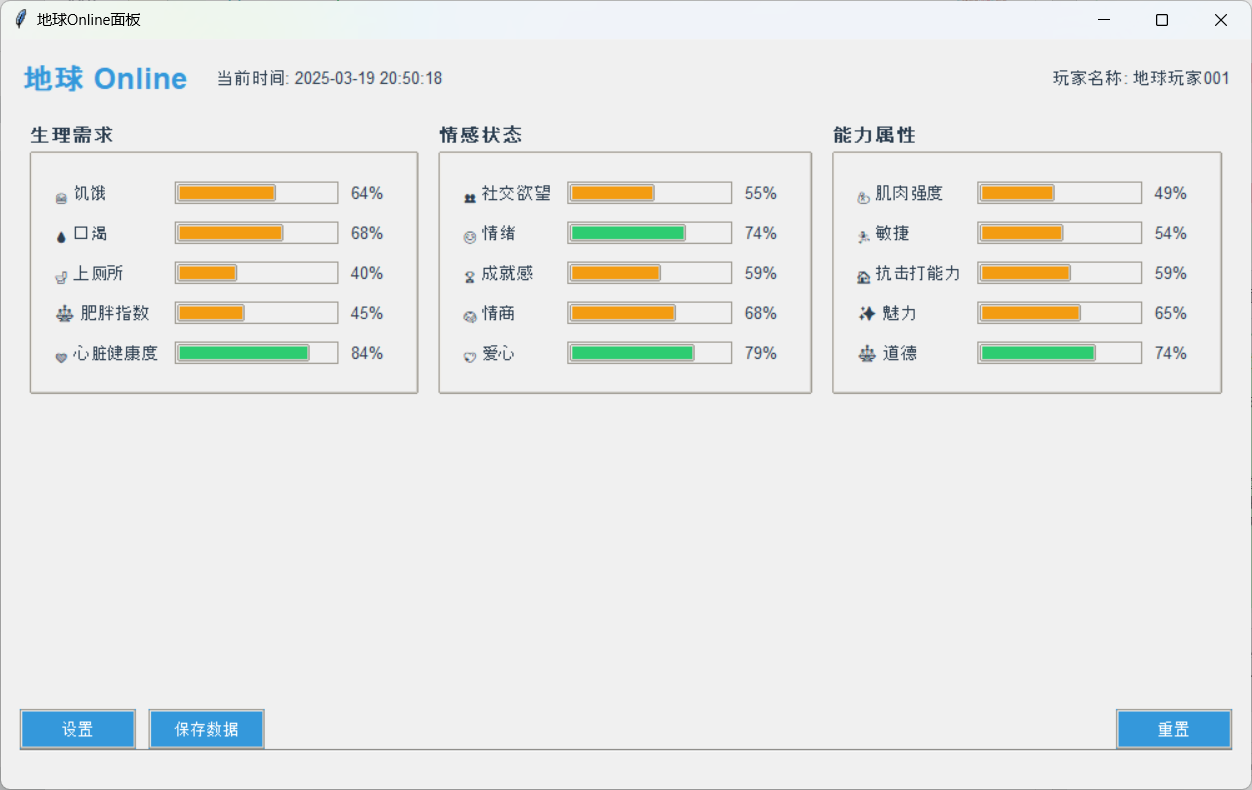
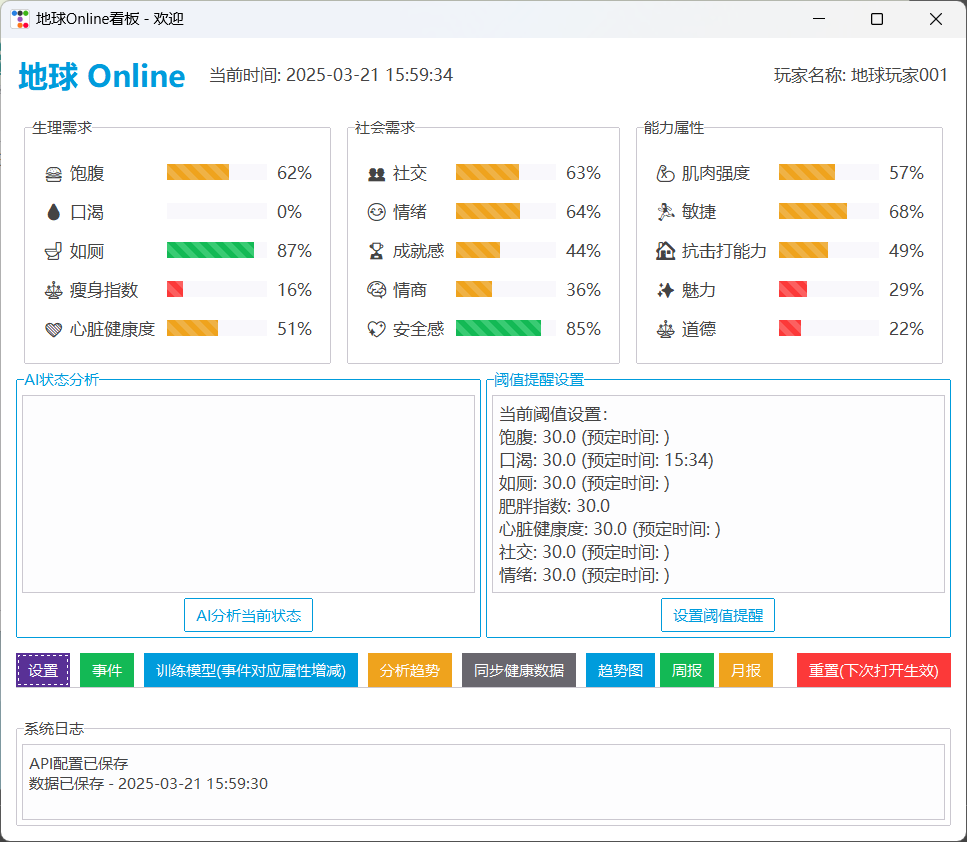
Update Readme

Changed region(s): [[0.0, 0.0, 1.0, 1.0], [0.0, 0.0, 0.1861, 0.0304], [0.8997, 0.0, 0.9307, 0.0304]]

diff --git a/README.md b/README.md
@@ -1,10 +1,10 @@
 # 🌍 地球Online 看板 Earth-Online Kanban
 
-![GitHub stars](https://img.shields.io/github/stars/JyiDeng/earth-online-kanban?style=social)
+<!-- ![GitHub stars](https://img.shields.io/github/stars/JyiDeng/earth-online-kanban?style=social) -->
 
 <i>【地球Online看板】系统已绑定，宿主您当前的属性值是.......</i>
 
-关键词： **自我监控** **健康管理** **动机激励** **智能穿戴集成**
+关键词： **自我监控** **健康管理** **动机激励** **智能穿戴集成** **数据分析** **AI助手**
 
 🌍 地球 Online 电脑桌面看板应用，可视化和跟踪【人类您】的日常生活中的各种属性状态，帮助你以游戏化的方式，更加量化地监控自己的生活状态。
 
@@ -13,20 +13,55 @@
 主页：
 
 <p align="center">
-  <img src="pic/Home.png" alt="地球Online主页截图" height="400">
+  <img src="pic/Home.png" alt="地球Online看板 主页截图" height="400">
 </p>
 
 看板：
 
 <p align="center">
-  <img src="pic/Kanban.png" alt="地球Online面板截图" height="400">
+  <img src="pic/Kanban.png" alt="地球Online看板 面板截图" height="400">
 </p>
+
+事件：
+
+<p align="center">
+  <img src="pic/event.png" alt="地球Online看板 事件界面截图" height="400">
+</p>
+
 
 设置界面：
 
 <p align="center">
-  <img src="pic/Settings.png" alt="地球Online设置界面截图" height="400">
+  <img src="pic/Settings.png" alt="地球Online看板 设置界面截图" height="400">
 </p>
+
+趋势文字描述：
+
+<p align="center">
+  <img src="pic/Trend_text.png" alt="地球Online看板 趋势文字描述界面截图" height="400">
+</p>
+
+趋势多维展示描述：
+
+<p align="center">
+  <img src="pic/Trend_multiple.png" alt="地球Online看板 趋势多维展示界面截图" height="400">
+</p>
+
+
+阈值提醒设置：
+
+<p align="center">
+  <img src="pic/Reminder.png" alt="地球Online看板 阈值提醒设置界面截图" height="400">
+</p>
+
+
+看板主题颜色设置后（还有许多主题可选）：
+
+<p align="center">
+  <img src="pic/Kanban_theme.png" alt="地球Online看板 看板主题颜色设置后界面截图" height="400">
+</p>
+
+
 
 ## 功能特点
 
@@ -42,6 +77,10 @@
 - **趋势分析**：自动分析属性变化趋势，预测未来状态
 - **阈值提醒**：当属性达到设定阈值时自动提醒
 - **定时任务**：支持设置定时提醒和检查点
+- **数据可视化**：支持生成周报和月报，包含详细的数据分析和图表
+- **PDF导出**：支持将报告导出为PDF格式
+- **系统日志**：自动记录系统运行日志，方便追踪和调试
+- **主题设置**：支持自定义界面主题和背景
 - 非常**轻量级**，只需要运行单个 python 文件
 - 本地运行，内容**安全**
 
@@ -114,10 +153,17 @@ earth_online_kanban/
 │   ├── config.py      # 配置管理
 │   ├── api.py         # API调用
 │   ├── logger.py      # 日志管理
+│   ├── analytics.py   # 数据分析
+│   ├── home_page.py   # 主页管理
 │   └── model.py       # 模型管理
 ├── data/              # 配置和数据文件
+│   ├── system_log.txt # 系统日志
+│   ├── thresholds.json # 阈值配置
+│   └── api_config.json # API配置
 ├── model/             # 模型文件
 ├── outputs/           # AI分析输出
+├── reports/           # 报告输出目录
+├── health_data/       # 健康数据处理目录
 └── WatchData/         # 健康数据目录
     └── apple_health_export/
         └── export.xml # 健康数据文件
@@ -134,6 +180,10 @@ earth_online_kanban/
 - [x] ✅ 定时任务 - 支持设置定时检查点
 - [x] ✅ 数据持久化 - 自动保存和加载数据
 - [x] ✅ 历史记录 - 记录属性变化历史
+- [x] ✅ 数据报告 - 支持生成周报和月报
+- [x] ✅ PDF导出 - 支持将报告导出为PDF格式
+- [x] ✅ 系统日志 - 自动记录系统运行状态
+- [x] ✅ 主题定制 - 支持自定义界面主题
 
 ## 待实现功能
 
@@ -144,7 +194,7 @@ earth_online_kanban/
 - [ ] 自定义属性 - 用户增加个性化属性大类、属性细则
 - [ ] 成就系统 - 达成特定条件获得成就
 - [ ] 任务系统 - 完成任务提升属性
-- [ ] 多人系统 - 可选择向他人展示部分属性
+- [ ] 多人系统 - 可选择向他人展示部分属性，以及 Web 3D 互动场景
 - [ ] 多样化主题 - 支持黑夜模式和其他配色
 
 ## 贡献指南
@@ -167,6 +217,7 @@ earth_online_kanban/
 - 灵感来源于生活游戏化和RPG游戏系统
 - 所有关于"地球Online"概念的有趣讨论、小说等
 - Apple Health Kit 提供的健康数据支持
+- 卓越杯辛勤付出的组员
 
 ## 联系方式
 
